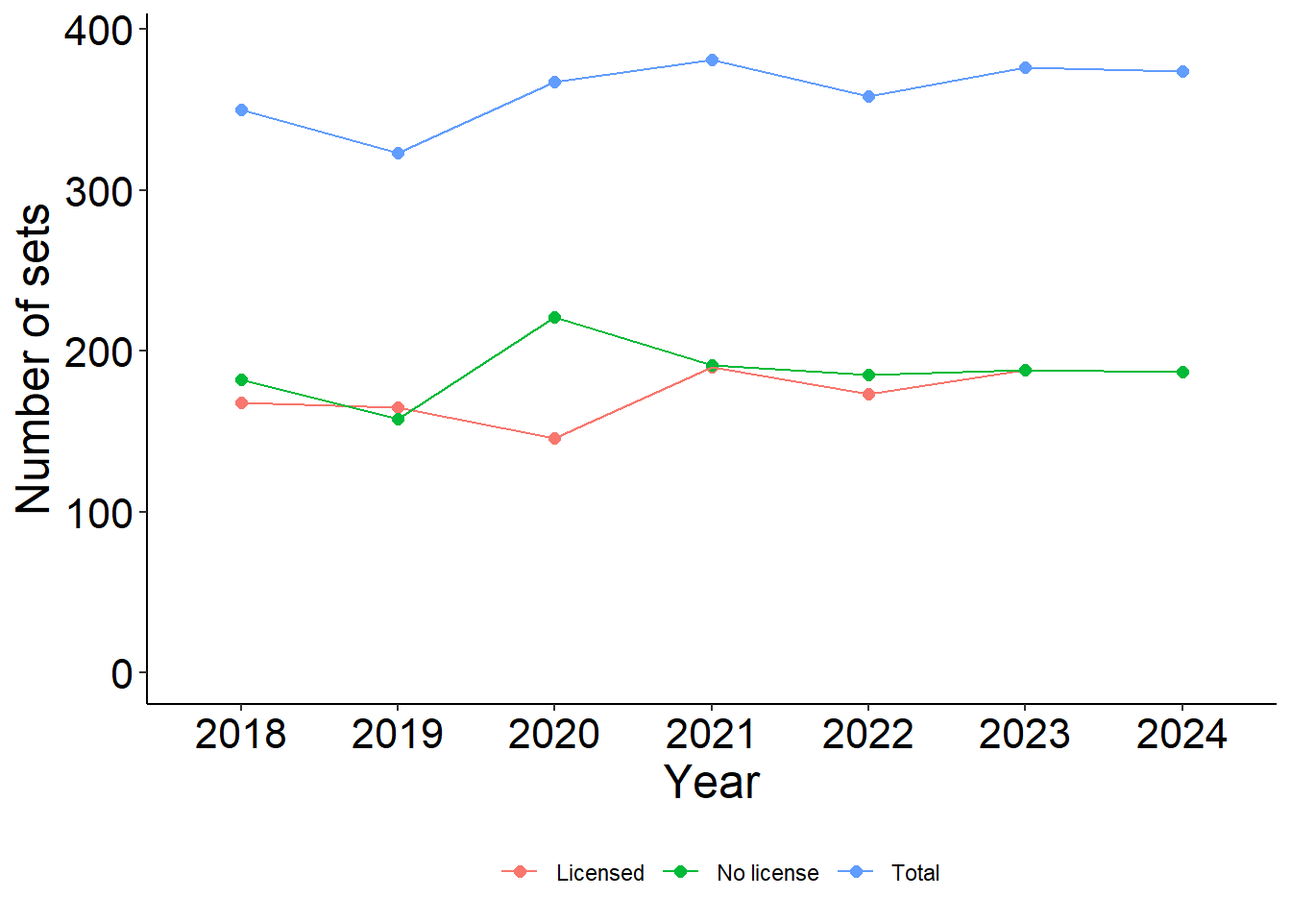
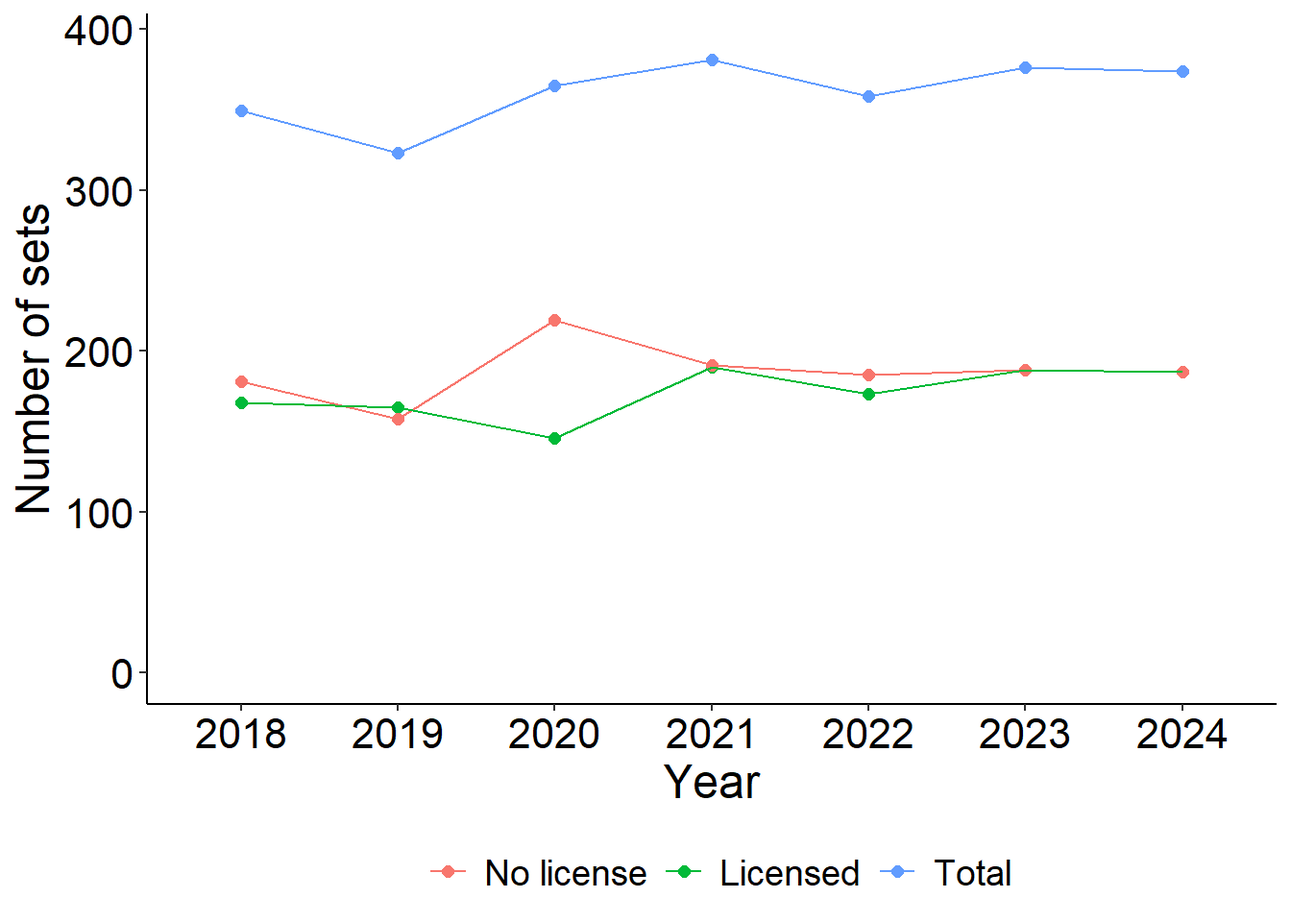
Update

diff --git a/docs/data_science_experience/posts/LegoSetPrices.html b/docs/data_science_experience/posts/LegoSetPrices.html
@@ -159,6 +159,7 @@ pre > code.sourceCode > span > a:first-child::before { text-decoration: underlin
   <li><a href="#visually-exploring-the-data" id="toc-visually-exploring-the-data" class="nav-link" data-scroll-target="#visually-exploring-the-data"><span class="header-section-number">4</span> Visually exploring the data</a>
   <ul class="collapse">
   <li><a href="#number-of-sets-released-each-year" id="toc-number-of-sets-released-each-year" class="nav-link" data-scroll-target="#number-of-sets-released-each-year"><span class="header-section-number">4.1</span> Number of sets released each year</a></li>
+  <li><a href="#price-to-part-ratio-of-sets-over-the-years" id="toc-price-to-part-ratio-of-sets-over-the-years" class="nav-link" data-scroll-target="#price-to-part-ratio-of-sets-over-the-years"><span class="header-section-number">4.2</span> Price-to-part ratio of sets over the years</a></li>
   </ul></li>
   </ul>
 </nav>
@@ -387,7 +388,7 @@ Table&nbsp;1: First 5 rows of <code>sets_18to24</code>
 <ul>
 <li><p><code>pieces</code> cannot be NA, and is cut-off at 10, because these very small sets are often expansion sets such as base plates, road plates, rails, etc.</p></li>
 <li><p><code>DE_retailPrice</code> cannot be NA.</p></li>
-<li><p>As I only focus on actual Lego sets, <code>theme</code> cannot be “Duplo”, and <code>category</code> cannot be “Book”.</p></li>
+<li><p>As I only focus on actual Lego sets, <code>theme</code> and <code>subtheme</code> cannot be “Duplo”, and <code>category</code> cannot be “Book”.</p></li>
 <li><p><code>released</code> equals TRUE, so it only contains sets that have been released on the market.</p></li>
 </ul>
 <p>And finally, the column <code>Price-to-part ratio</code> is added, which is calculated from <code>DE_retailPrice</code> and <code>pieces</code>.</p>
@@ -397,15 +398,16 @@ Table&nbsp;1: First 5 rows of <code>sets_18to24</code>
 <span id="cb5-3"><a href="#cb5-3" aria-hidden="true" tabindex="-1"></a>         pieces <span class="sc">&gt;</span> <span class="dv">10</span>,</span>
 <span id="cb5-4"><a href="#cb5-4" aria-hidden="true" tabindex="-1"></a>         <span class="fu">is.na</span>(DE_retailPrice) <span class="sc">==</span> <span class="cn">FALSE</span>,</span>
 <span id="cb5-5"><a href="#cb5-5" aria-hidden="true" tabindex="-1"></a>         theme <span class="sc">!=</span> <span class="st">"Duplo"</span>,</span>
-<span id="cb5-6"><a href="#cb5-6" aria-hidden="true" tabindex="-1"></a>         category <span class="sc">!=</span> <span class="st">"Book"</span>,</span>
-<span id="cb5-7"><a href="#cb5-7" aria-hidden="true" tabindex="-1"></a>         released <span class="sc">==</span> <span class="cn">TRUE</span></span>
-<span id="cb5-8"><a href="#cb5-8" aria-hidden="true" tabindex="-1"></a>         ) <span class="sc">%&gt;%</span></span>
-<span id="cb5-9"><a href="#cb5-9" aria-hidden="true" tabindex="-1"></a>  <span class="fu">mutate</span>(<span class="st">"License"</span> <span class="ot">=</span> <span class="fu">ifelse</span>(themeGroup <span class="sc">==</span> <span class="st">"Licensed"</span><span class="sc">|</span>subtheme <span class="sc">==</span> <span class="st">"Licensed"</span>,</span>
-<span id="cb5-10"><a href="#cb5-10" aria-hidden="true" tabindex="-1"></a>                            <span class="st">"Licensed"</span>,</span>
-<span id="cb5-11"><a href="#cb5-11" aria-hidden="true" tabindex="-1"></a>                            <span class="st">"No license"</span>),</span>
-<span id="cb5-12"><a href="#cb5-12" aria-hidden="true" tabindex="-1"></a>         <span class="st">"Price-to-part ratio"</span> <span class="ot">=</span> <span class="fu">round</span>(DE_retailPrice<span class="sc">/</span>pieces, <span class="dv">2</span>))</span>
-<span id="cb5-13"><a href="#cb5-13" aria-hidden="true" tabindex="-1"></a></span>
-<span id="cb5-14"><a href="#cb5-14" aria-hidden="true" tabindex="-1"></a><span class="fu">head</span>(df_sets_18to24_filt, <span class="at">n =</span> <span class="dv">5</span>)</span></code><button title="Copy to Clipboard" class="code-copy-button"><i class="bi"></i></button></pre></div>
+<span id="cb5-6"><a href="#cb5-6" aria-hidden="true" tabindex="-1"></a>         subtheme <span class="sc">!=</span> <span class="st">"Duplo"</span>,</span>
+<span id="cb5-7"><a href="#cb5-7" aria-hidden="true" tabindex="-1"></a>         category <span class="sc">!=</span> <span class="st">"Book"</span>,</span>
+<span id="cb5-8"><a href="#cb5-8" aria-hidden="true" tabindex="-1"></a>         released <span class="sc">==</span> <span class="cn">TRUE</span></span>
+<span id="cb5-9"><a href="#cb5-9" aria-hidden="true" tabindex="-1"></a>         ) <span class="sc">%&gt;%</span></span>
+<span id="cb5-10"><a href="#cb5-10" aria-hidden="true" tabindex="-1"></a>  <span class="fu">mutate</span>(<span class="st">"License"</span> <span class="ot">=</span> <span class="fu">ifelse</span>(themeGroup <span class="sc">==</span> <span class="st">"Licensed"</span><span class="sc">|</span>subtheme <span class="sc">==</span> <span class="st">"Licensed"</span>,</span>
+<span id="cb5-11"><a href="#cb5-11" aria-hidden="true" tabindex="-1"></a>                            <span class="st">"Licensed"</span>,</span>
+<span id="cb5-12"><a href="#cb5-12" aria-hidden="true" tabindex="-1"></a>                            <span class="st">"No license"</span>),</span>
+<span id="cb5-13"><a href="#cb5-13" aria-hidden="true" tabindex="-1"></a>         <span class="st">"Price-to-part ratio"</span> <span class="ot">=</span> <span class="fu">round</span>(DE_retailPrice<span class="sc">/</span>pieces, <span class="dv">2</span>))</span>
+<span id="cb5-14"><a href="#cb5-14" aria-hidden="true" tabindex="-1"></a></span>
+<span id="cb5-15"><a href="#cb5-15" aria-hidden="true" tabindex="-1"></a><span class="fu">head</span>(df_sets_18to24_filt, <span class="at">n =</span> <span class="dv">5</span>)</span></code><button title="Copy to Clipboard" class="code-copy-button"><i class="bi"></i></button></pre></div>
 <div id="tbl-sets_18to24_filt" class="cell quarto-float quarto-figure quarto-figure-center anchored">
 <figure class="quarto-float quarto-float-tbl figure">
 <figcaption class="quarto-float-caption-top quarto-float-caption quarto-float-tbl" id="tbl-sets_18to24_filt-caption-0ceaefa1-69ba-4598-a22c-09a6ac19f8ca">
@@ -531,9 +533,10 @@ Table&nbsp;2: First 5 rows of <code>sets_18to24_filt</code>
 </figure>
 </div>
 </div>
-<p>The <code>years</code> column is converted into type factor, instead of type double. This will turn it from a continuous variable into a categorical variable, and is necessary when using <code>year</code> as a grouping variable, or when creating plots with <code>ggplot2</code>.</p>
+<p>The <code>year</code> column is converted into type factor, instead of type double. This will turn it from a continuous variable into a categorical variable, and is necessary when using <code>year</code> as a grouping variable, or when creating plots with <code>ggplot2</code>. Also, the <code>License</code> column is made into a factor, with the levels “No license” and “License”, in that order.</p>
 <div class="cell">
-<div class="sourceCode cell-code" id="cb6"><pre class="sourceCode r code-with-copy"><code class="sourceCode r"><span id="cb6-1"><a href="#cb6-1" aria-hidden="true" tabindex="-1"></a>df_sets_18to24_filt<span class="sc">$</span>year <span class="ot">&lt;-</span> <span class="fu">factor</span>(df_sets_18to24_filt<span class="sc">$</span>year)</span></code><button title="Copy to Clipboard" class="code-copy-button"><i class="bi"></i></button></pre></div>
+<div class="sourceCode cell-code" id="cb6"><pre class="sourceCode r code-with-copy"><code class="sourceCode r"><span id="cb6-1"><a href="#cb6-1" aria-hidden="true" tabindex="-1"></a>df_sets_18to24_filt<span class="sc">$</span>year <span class="ot">&lt;-</span> <span class="fu">factor</span>(df_sets_18to24_filt<span class="sc">$</span>year)</span>
+<span id="cb6-2"><a href="#cb6-2" aria-hidden="true" tabindex="-1"></a>df_sets_18to24_filt<span class="sc">$</span>License <span class="ot">&lt;-</span> <span class="fu">factor</span>(df_sets_18to24_filt<span class="sc">$</span>License, <span class="at">levels =</span> <span class="fu">c</span>(<span class="st">"No license"</span>, <span class="st">"Licensed"</span>))</span></code><button title="Copy to Clipboard" class="code-copy-button"><i class="bi"></i></button></pre></div>
 </div>
 </section>
 <section id="visually-exploring-the-data" class="level2" data-number="4">
@@ -548,17 +551,20 @@ Table&nbsp;2: First 5 rows of <code>sets_18to24_filt</code>
 <span id="cb7-5"><a href="#cb7-5" aria-hidden="true" tabindex="-1"></a>  <span class="fu">pivot_wider</span>(<span class="at">names_from =</span> License, <span class="at">values_from =</span> n_sets) <span class="sc">%&gt;%</span></span>
 <span id="cb7-6"><a href="#cb7-6" aria-hidden="true" tabindex="-1"></a>  <span class="fu">pivot_longer</span>(<span class="at">cols =</span> <span class="fu">c</span>(Licensed, <span class="st">`</span><span class="at">No license</span><span class="st">`</span>, Total), <span class="at">names_to =</span> <span class="st">"License"</span>, <span class="at">values_to =</span> <span class="st">"n_sets"</span>)</span>
 <span id="cb7-7"><a href="#cb7-7" aria-hidden="true" tabindex="-1"></a></span>
-<span id="cb7-8"><a href="#cb7-8" aria-hidden="true" tabindex="-1"></a><span class="fu">ggplot</span>(df_release_yr) <span class="sc">+</span></span>
-<span id="cb7-9"><a href="#cb7-9" aria-hidden="true" tabindex="-1"></a>  <span class="fu">geom_point</span>(<span class="fu">aes</span>(<span class="at">x =</span> year, <span class="at">y =</span> n_sets, <span class="at">color =</span> License, <span class="at">fill =</span> License), <span class="at">pch =</span> <span class="dv">21</span>, <span class="at">size =</span> <span class="dv">2</span>) <span class="sc">+</span></span>
-<span id="cb7-10"><a href="#cb7-10" aria-hidden="true" tabindex="-1"></a>  <span class="fu">geom_line</span>(<span class="fu">aes</span>(<span class="at">x =</span> year, <span class="at">y =</span> n_sets, <span class="at">color =</span> License, <span class="at">group =</span> License)) <span class="sc">+</span></span>
-<span id="cb7-11"><a href="#cb7-11" aria-hidden="true" tabindex="-1"></a>  <span class="fu">scale_x_discrete</span>(<span class="at">name =</span> <span class="st">"Year"</span>) <span class="sc">+</span></span>
-<span id="cb7-12"><a href="#cb7-12" aria-hidden="true" tabindex="-1"></a>  <span class="fu">scale_y_continuous</span>(<span class="at">name =</span> <span class="st">"Number of sets"</span>) <span class="sc">+</span></span>
-<span id="cb7-13"><a href="#cb7-13" aria-hidden="true" tabindex="-1"></a>  <span class="fu">coord_cartesian</span>(<span class="at">ylim =</span> <span class="fu">c</span>(<span class="dv">0</span>, <span class="dv">390</span>)) <span class="sc">+</span></span>
-<span id="cb7-14"><a href="#cb7-14" aria-hidden="true" tabindex="-1"></a>  <span class="fu">theme_classic</span>() <span class="sc">+</span></span>
-<span id="cb7-15"><a href="#cb7-15" aria-hidden="true" tabindex="-1"></a>  <span class="fu">theme</span>(<span class="at">axis.title =</span> <span class="fu">element_text</span>(<span class="at">size =</span> <span class="dv">18</span>),</span>
-<span id="cb7-16"><a href="#cb7-16" aria-hidden="true" tabindex="-1"></a>        <span class="at">axis.text =</span> <span class="fu">element_text</span>(<span class="at">size =</span> <span class="dv">16</span>, <span class="at">color =</span> <span class="st">"black"</span>),</span>
-<span id="cb7-17"><a href="#cb7-17" aria-hidden="true" tabindex="-1"></a>        <span class="at">legend.position =</span> <span class="st">"bottom"</span>,</span>
-<span id="cb7-18"><a href="#cb7-18" aria-hidden="true" tabindex="-1"></a>        <span class="at">legend.title =</span> <span class="fu">element_blank</span>())</span></code><button title="Copy to Clipboard" class="code-copy-button"><i class="bi"></i></button></pre></div>
+<span id="cb7-8"><a href="#cb7-8" aria-hidden="true" tabindex="-1"></a>df_release_yr<span class="sc">$</span>License <span class="ot">&lt;-</span> <span class="fu">factor</span>(df_release_yr<span class="sc">$</span>License, <span class="at">levels =</span> <span class="fu">c</span>(<span class="st">"No license"</span>, <span class="st">"Licensed"</span>, <span class="st">"Total"</span>))</span>
+<span id="cb7-9"><a href="#cb7-9" aria-hidden="true" tabindex="-1"></a></span>
+<span id="cb7-10"><a href="#cb7-10" aria-hidden="true" tabindex="-1"></a><span class="fu">ggplot</span>(df_release_yr) <span class="sc">+</span></span>
+<span id="cb7-11"><a href="#cb7-11" aria-hidden="true" tabindex="-1"></a>  <span class="fu">geom_point</span>(<span class="fu">aes</span>(<span class="at">x =</span> year, <span class="at">y =</span> n_sets, <span class="at">color =</span> License, <span class="at">fill =</span> License), <span class="at">pch =</span> <span class="dv">21</span>, <span class="at">size =</span> <span class="dv">2</span>) <span class="sc">+</span></span>
+<span id="cb7-12"><a href="#cb7-12" aria-hidden="true" tabindex="-1"></a>  <span class="fu">geom_line</span>(<span class="fu">aes</span>(<span class="at">x =</span> year, <span class="at">y =</span> n_sets, <span class="at">color =</span> License, <span class="at">group =</span> License)) <span class="sc">+</span></span>
+<span id="cb7-13"><a href="#cb7-13" aria-hidden="true" tabindex="-1"></a>  <span class="fu">scale_x_discrete</span>(<span class="at">name =</span> <span class="st">"Year"</span>) <span class="sc">+</span></span>
+<span id="cb7-14"><a href="#cb7-14" aria-hidden="true" tabindex="-1"></a>  <span class="fu">scale_y_continuous</span>(<span class="at">name =</span> <span class="st">"Number of sets"</span>) <span class="sc">+</span></span>
+<span id="cb7-15"><a href="#cb7-15" aria-hidden="true" tabindex="-1"></a>  <span class="fu">coord_cartesian</span>(<span class="at">ylim =</span> <span class="fu">c</span>(<span class="dv">0</span>, <span class="dv">390</span>)) <span class="sc">+</span></span>
+<span id="cb7-16"><a href="#cb7-16" aria-hidden="true" tabindex="-1"></a>  <span class="fu">theme_classic</span>() <span class="sc">+</span></span>
+<span id="cb7-17"><a href="#cb7-17" aria-hidden="true" tabindex="-1"></a>  <span class="fu">theme</span>(<span class="at">axis.title =</span> <span class="fu">element_text</span>(<span class="at">size =</span> <span class="dv">18</span>),</span>
+<span id="cb7-18"><a href="#cb7-18" aria-hidden="true" tabindex="-1"></a>        <span class="at">axis.text =</span> <span class="fu">element_text</span>(<span class="at">size =</span> <span class="dv">16</span>, <span class="at">color =</span> <span class="st">"black"</span>),</span>
+<span id="cb7-19"><a href="#cb7-19" aria-hidden="true" tabindex="-1"></a>        <span class="at">legend.position =</span> <span class="st">"bottom"</span>,</span>
+<span id="cb7-20"><a href="#cb7-20" aria-hidden="true" tabindex="-1"></a>        <span class="at">legend.title =</span> <span class="fu">element_blank</span>(),</span>
+<span id="cb7-21"><a href="#cb7-21" aria-hidden="true" tabindex="-1"></a>        <span class="at">legend.text =</span> <span class="fu">element_text</span>(<span class="at">size =</span> <span class="dv">14</span>))</span></code><button title="Copy to Clipboard" class="code-copy-button"><i class="bi"></i></button></pre></div>
 <div class="cell-output-display">
 <div id="fig-sets_released" class="quarto-float quarto-figure quarto-figure-center anchored">
 <figure class="quarto-float quarto-float-fig figure">
@@ -573,22 +579,30 @@ Figure&nbsp;1: Number of sets released from 2018 to 2024.
 </div>
 </div>
 <p>In <a href="#fig-sets_released" class="quarto-xref">Figure&nbsp;1</a> you can see that the number of sets released each year is quite stable, with almost an equal number of licensed versus non-licensed sets being released. Interesting is the difference in 2020, where there is a drop in licensed sets, and an increase in the licensed ones. Not sure what the cause is of this difference here, but a good guess might be that due to COVID-19 a lot of media releases (movies, tv series, …) have been postponed, which in turn might have resulted in the accompanying Lego sets not being released as well?</p>
+</section>
+<section id="price-to-part-ratio-of-sets-over-the-years" class="level3" data-number="4.2">
+<h3 data-number="4.2" class="anchored" data-anchor-id="price-to-part-ratio-of-sets-over-the-years"><span class="header-section-number">4.2</span> Price-to-part ratio of sets over the years</h3>
 <div class="cell">
 <div class="sourceCode cell-code" id="cb8"><pre class="sourceCode r code-with-copy"><code class="sourceCode r"><span id="cb8-1"><a href="#cb8-1" aria-hidden="true" tabindex="-1"></a>df_ptp_stats <span class="ot">&lt;-</span> df_sets_18to24_filt <span class="sc">%&gt;%</span></span>
 <span id="cb8-2"><a href="#cb8-2" aria-hidden="true" tabindex="-1"></a>  <span class="fu">group_by</span>(year, License) <span class="sc">%&gt;%</span></span>
-<span id="cb8-3"><a href="#cb8-3" aria-hidden="true" tabindex="-1"></a>  <span class="fu">summarize</span>(<span class="st">"Mean PtP ratio"</span> <span class="ot">=</span> <span class="fu">mean</span>(<span class="st">`</span><span class="at">Price-to-part ratio</span><span class="st">`</span>))</span></code><button title="Copy to Clipboard" class="code-copy-button"><i class="bi"></i></button></pre></div>
-<div class="cell-output cell-output-stderr">
-<pre><code>`summarise()` has grouped output by 'year'. You can override using the
-`.groups` argument.</code></pre>
-</div>
-<div class="sourceCode cell-code" id="cb10"><pre class="sourceCode r code-with-copy"><code class="sourceCode r"><span id="cb10-1"><a href="#cb10-1" aria-hidden="true" tabindex="-1"></a><span class="fu">ggplot</span>(df_sets_18to24_filt) <span class="sc">+</span></span>
-<span id="cb10-2"><a href="#cb10-2" aria-hidden="true" tabindex="-1"></a>  <span class="fu">geom_quasirandom</span>(<span class="fu">aes</span>(<span class="at">x =</span> year, <span class="at">y =</span> <span class="st">`</span><span class="at">Price-to-part ratio</span><span class="st">`</span>, <span class="at">color =</span> License), <span class="at">dodge.width =</span> <span class="fl">0.5</span>, <span class="at">pch =</span> <span class="dv">21</span>) <span class="sc">+</span></span>
-<span id="cb10-3"><a href="#cb10-3" aria-hidden="true" tabindex="-1"></a>  <span class="fu">scale_y_continuous</span>(<span class="at">trans =</span> <span class="st">"log10"</span>) <span class="sc">+</span></span>
-<span id="cb10-4"><a href="#cb10-4" aria-hidden="true" tabindex="-1"></a>  <span class="fu">theme_classic</span>() <span class="sc">+</span></span>
-<span id="cb10-5"><a href="#cb10-5" aria-hidden="true" tabindex="-1"></a>  <span class="fu">theme</span>(<span class="at">axis.title =</span> <span class="fu">element_text</span>(<span class="at">size =</span> <span class="dv">18</span>),</span>
-<span id="cb10-6"><a href="#cb10-6" aria-hidden="true" tabindex="-1"></a>        <span class="at">axis.text =</span> <span class="fu">element_text</span>(<span class="at">size =</span> <span class="dv">16</span>, <span class="at">color =</span> <span class="st">"black"</span>),</span>
-<span id="cb10-7"><a href="#cb10-7" aria-hidden="true" tabindex="-1"></a>        <span class="at">legend.position =</span> <span class="st">"bottom"</span>,</span>
-<span id="cb10-8"><a href="#cb10-8" aria-hidden="true" tabindex="-1"></a>        <span class="at">legend.title =</span> <span class="fu">element_blank</span>())</span></code><button title="Copy to Clipboard" class="code-copy-button"><i class="bi"></i></button></pre></div>
+<span id="cb8-3"><a href="#cb8-3" aria-hidden="true" tabindex="-1"></a>  <span class="fu">summarize</span>(<span class="st">"mean PtP ratio"</span> <span class="ot">=</span> <span class="fu">mean</span>(<span class="st">`</span><span class="at">Price-to-part ratio</span><span class="st">`</span>),</span>
+<span id="cb8-4"><a href="#cb8-4" aria-hidden="true" tabindex="-1"></a>            <span class="st">"median PtP ratio"</span> <span class="ot">=</span> <span class="fu">median</span>(<span class="st">`</span><span class="at">Price-to-part ratio</span><span class="st">`</span>),</span>
+<span id="cb8-5"><a href="#cb8-5" aria-hidden="true" tabindex="-1"></a>            <span class="st">"sd"</span> <span class="ot">=</span> <span class="fu">sd</span>(<span class="st">`</span><span class="at">Price-to-part ratio</span><span class="st">`</span>))</span>
+<span id="cb8-6"><a href="#cb8-6" aria-hidden="true" tabindex="-1"></a></span>
+<span id="cb8-7"><a href="#cb8-7" aria-hidden="true" tabindex="-1"></a><span class="fu">ggplot</span>(df_sets_18to24_filt) <span class="sc">+</span></span>
+<span id="cb8-8"><a href="#cb8-8" aria-hidden="true" tabindex="-1"></a>  <span class="fu">facet_grid</span>(<span class="sc">~</span>year) <span class="sc">+</span></span>
+<span id="cb8-9"><a href="#cb8-9" aria-hidden="true" tabindex="-1"></a>  <span class="fu">geom_quasirandom</span>(<span class="fu">aes</span>(<span class="at">x =</span> License, <span class="at">y =</span> <span class="st">`</span><span class="at">Price-to-part ratio</span><span class="st">`</span>, <span class="at">color =</span> License), <span class="at">dodge.width =</span> <span class="fl">0.5</span>, <span class="at">pch =</span> <span class="dv">21</span>) <span class="sc">+</span></span>
+<span id="cb8-10"><a href="#cb8-10" aria-hidden="true" tabindex="-1"></a>  <span class="fu">geom_point</span>(<span class="at">data =</span> df_ptp_stats, <span class="fu">aes</span>(<span class="at">x =</span> License, <span class="at">y =</span> <span class="st">`</span><span class="at">mean PtP ratio</span><span class="st">`</span>)) <span class="sc">+</span></span>
+<span id="cb8-11"><a href="#cb8-11" aria-hidden="true" tabindex="-1"></a>  <span class="fu">geom_errorbar</span>(<span class="at">data =</span> df_ptp_stats, <span class="fu">aes</span>(<span class="at">x =</span> License, <span class="at">ymin =</span> <span class="st">`</span><span class="at">mean PtP ratio</span><span class="st">`</span> <span class="sc">-</span> sd, <span class="at">ymax =</span> <span class="st">`</span><span class="at">mean PtP ratio</span><span class="st">`</span> <span class="sc">+</span> sd), <span class="at">width =</span> <span class="fl">0.2</span>) <span class="sc">+</span></span>
+<span id="cb8-12"><a href="#cb8-12" aria-hidden="true" tabindex="-1"></a>  <span class="fu">theme_classic</span>() <span class="sc">+</span></span>
+<span id="cb8-13"><a href="#cb8-13" aria-hidden="true" tabindex="-1"></a>  <span class="fu">theme</span>(<span class="at">axis.title.x =</span> <span class="fu">element_blank</span>(),</span>
+<span id="cb8-14"><a href="#cb8-14" aria-hidden="true" tabindex="-1"></a>        <span class="at">axis.title.y =</span> <span class="fu">element_text</span>(<span class="at">size =</span> <span class="dv">18</span>),</span>
+<span id="cb8-15"><a href="#cb8-15" aria-hidden="true" tabindex="-1"></a>        <span class="at">axis.text.x =</span> <span class="fu">element_blank</span>(),</span>
+<span id="cb8-16"><a href="#cb8-16" aria-hidden="true" tabindex="-1"></a>        <span class="at">axis.text.y =</span> <span class="fu">element_text</span>(<span class="at">size =</span> <span class="dv">16</span>, <span class="at">color =</span> <span class="st">"black"</span>),</span>
+<span id="cb8-17"><a href="#cb8-17" aria-hidden="true" tabindex="-1"></a>        <span class="at">legend.position =</span> <span class="st">"bottom"</span>,</span>
+<span id="cb8-18"><a href="#cb8-18" aria-hidden="true" tabindex="-1"></a>        <span class="at">legend.title =</span> <span class="fu">element_blank</span>(),</span>
+<span id="cb8-19"><a href="#cb8-19" aria-hidden="true" tabindex="-1"></a>        <span class="at">legend.text =</span> <span class="fu">element_text</span>(<span class="at">size =</span> <span class="dv">14</span>),</span>
+<span id="cb8-20"><a href="#cb8-20" aria-hidden="true" tabindex="-1"></a>        <span class="at">strip.text =</span> <span class="fu">element_text</span>(<span class="at">size =</span> <span class="dv">14</span>, <span class="at">face =</span> <span class="st">"bold"</span>))</span></code><button title="Copy to Clipboard" class="code-copy-button"><i class="bi"></i></button></pre></div>
 <div class="cell-output-display">
 <div>
 <figure class="figure">
@@ -598,56 +612,24 @@ Figure&nbsp;1: Number of sets released from 2018 to 2024.
 </div>
 </div>
 <div class="cell">
-<div class="sourceCode cell-code" id="cb11"><pre class="sourceCode r code-with-copy"><code class="sourceCode r"><span id="cb11-1"><a href="#cb11-1" aria-hidden="true" tabindex="-1"></a><span class="fu">ggplot</span>(df_sets_18to24_filt) <span class="sc">+</span></span>
-<span id="cb11-2"><a href="#cb11-2" aria-hidden="true" tabindex="-1"></a>  <span class="fu">geom_boxplot</span>(<span class="fu">aes</span>(<span class="at">x =</span> year, <span class="at">y =</span> pieces)) <span class="sc">+</span></span>
-<span id="cb11-3"><a href="#cb11-3" aria-hidden="true" tabindex="-1"></a>  <span class="fu">scale_y_continuous</span>(<span class="at">trans =</span> <span class="st">"log10"</span>)</span></code><button title="Copy to Clipboard" class="code-copy-button"><i class="bi"></i></button></pre></div>
+<div class="sourceCode cell-code" id="cb9"><pre class="sourceCode r code-with-copy"><code class="sourceCode r"><span id="cb9-1"><a href="#cb9-1" aria-hidden="true" tabindex="-1"></a><span class="fu">ggplot</span>(df_ptp_stats) <span class="sc">+</span></span>
+<span id="cb9-2"><a href="#cb9-2" aria-hidden="true" tabindex="-1"></a>  <span class="fu">geom_line</span>(<span class="fu">aes</span>(<span class="at">x =</span> year, <span class="at">y =</span> <span class="st">`</span><span class="at">mean PtP ratio</span><span class="st">`</span>, <span class="at">color =</span> License, <span class="at">group =</span> License)) <span class="sc">+</span></span>
+<span id="cb9-3"><a href="#cb9-3" aria-hidden="true" tabindex="-1"></a>  <span class="fu">geom_point</span>(<span class="fu">aes</span>(<span class="at">x =</span> year, <span class="at">y =</span> <span class="st">`</span><span class="at">mean PtP ratio</span><span class="st">`</span>, <span class="at">color =</span> License, <span class="at">fill =</span> License), <span class="at">pch =</span> <span class="dv">21</span>, <span class="at">size =</span> <span class="dv">2</span>) <span class="sc">+</span></span>
+<span id="cb9-4"><a href="#cb9-4" aria-hidden="true" tabindex="-1"></a>  <span class="fu">scale_x_discrete</span>(<span class="at">name =</span> <span class="st">"Year"</span>) <span class="sc">+</span></span>
+<span id="cb9-5"><a href="#cb9-5" aria-hidden="true" tabindex="-1"></a>  <span class="fu">scale_y_continuous</span>(<span class="at">name =</span> <span class="st">"Mean price-to-part ratio"</span>) <span class="sc">+</span></span>
+<span id="cb9-6"><a href="#cb9-6" aria-hidden="true" tabindex="-1"></a>  <span class="fu">coord_cartesian</span>(<span class="at">ylim =</span> <span class="fu">c</span>(<span class="dv">0</span>, <span class="fl">0.15</span>)) <span class="sc">+</span></span>
+<span id="cb9-7"><a href="#cb9-7" aria-hidden="true" tabindex="-1"></a>  <span class="fu">theme_classic</span>() <span class="sc">+</span></span>
+<span id="cb9-8"><a href="#cb9-8" aria-hidden="true" tabindex="-1"></a>  <span class="fu">theme</span>(<span class="at">axis.title =</span> <span class="fu">element_text</span>(<span class="at">size =</span> <span class="dv">18</span>),</span>
+<span id="cb9-9"><a href="#cb9-9" aria-hidden="true" tabindex="-1"></a>        <span class="at">axis.text =</span> <span class="fu">element_text</span>(<span class="at">size =</span> <span class="dv">16</span>, <span class="at">color =</span> <span class="st">"black"</span>),</span>
+<span id="cb9-10"><a href="#cb9-10" aria-hidden="true" tabindex="-1"></a>        <span class="at">legend.position =</span> <span class="st">"bottom"</span>,</span>
+<span id="cb9-11"><a href="#cb9-11" aria-hidden="true" tabindex="-1"></a>        <span class="at">legend.title =</span> <span class="fu">element_blank</span>(),</span>
+<span id="cb9-12"><a href="#cb9-12" aria-hidden="true" tabindex="-1"></a>        <span class="at">legend.text =</span> <span class="fu">element_text</span>(<span class="at">size =</span> <span class="dv">14</span>))</span></code><button title="Copy to Clipboard" class="code-copy-button"><i class="bi"></i></button></pre></div>
 <div class="cell-output-display">
 <div>
 <figure class="figure">
 <p><img src="LegoSetPrices_files/figure-html/unnamed-chunk-9-1.png" class="img-fluid figure-img" width="672"></p>
 </figure>
 </div>
-</div>
-<div class="sourceCode cell-code" id="cb12"><pre class="sourceCode r code-with-copy"><code class="sourceCode r"><span id="cb12-1"><a href="#cb12-1" aria-hidden="true" tabindex="-1"></a><span class="fu">ggplot</span>(df_sets_18to24_filt) <span class="sc">+</span></span>
-<span id="cb12-2"><a href="#cb12-2" aria-hidden="true" tabindex="-1"></a>  <span class="fu">geom_boxplot</span>(<span class="fu">aes</span>(<span class="at">x =</span> year, <span class="at">y =</span> DE_retailPrice)) <span class="sc">+</span></span>
-<span id="cb12-3"><a href="#cb12-3" aria-hidden="true" tabindex="-1"></a>    <span class="fu">scale_y_continuous</span>(<span class="at">trans =</span> <span class="st">"log10"</span>)</span></code><button title="Copy to Clipboard" class="code-copy-button"><i class="bi"></i></button></pre></div>
-<div class="cell-output-display">
-<div>
-<figure class="figure">
-<p><img src="LegoSetPrices_files/figure-html/unnamed-chunk-9-2.png" class="img-fluid figure-img" width="672"></p>
-</figure>
-</div>
-</div>
-<div class="sourceCode cell-code" id="cb13"><pre class="sourceCode r code-with-copy"><code class="sourceCode r"><span id="cb13-1"><a href="#cb13-1" aria-hidden="true" tabindex="-1"></a><span class="fu">ggplot</span>(df_sets_18to24_filt) <span class="sc">+</span></span>
-<span id="cb13-2"><a href="#cb13-2" aria-hidden="true" tabindex="-1"></a>  <span class="fu">geom_point</span>(<span class="fu">aes</span>(<span class="at">x =</span> pieces, <span class="at">y =</span> DE_retailPrice, <span class="at">color =</span> License)) <span class="sc">+</span></span>
-<span id="cb13-3"><a href="#cb13-3" aria-hidden="true" tabindex="-1"></a>  <span class="fu">geom_smooth</span>(<span class="fu">aes</span>(<span class="at">x =</span> pieces, <span class="at">y =</span> DE_retailPrice), <span class="at">formula =</span> y <span class="sc">~</span> x <span class="sc">-</span> <span class="dv">1</span>, <span class="at">method =</span> <span class="st">"lm"</span>) <span class="sc">+</span></span>
-<span id="cb13-4"><a href="#cb13-4" aria-hidden="true" tabindex="-1"></a>  <span class="fu">geom_smooth</span>(<span class="fu">aes</span>(<span class="at">x =</span> pieces, <span class="at">y =</span> DE_retailPrice, <span class="at">color =</span> License), <span class="at">formula =</span> y <span class="sc">~</span> x <span class="sc">-</span> <span class="dv">1</span>, <span class="at">method =</span> <span class="st">"lm"</span>)</span></code><button title="Copy to Clipboard" class="code-copy-button"><i class="bi"></i></button></pre></div>
-<div class="cell-output-display">
-<div>
-<figure class="figure">
-<p><img src="LegoSetPrices_files/figure-html/unnamed-chunk-9-3.png" class="img-fluid figure-img" width="672"></p>
-</figure>
-</div>
-</div>
-<div class="sourceCode cell-code" id="cb14"><pre class="sourceCode r code-with-copy"><code class="sourceCode r"><span id="cb14-1"><a href="#cb14-1" aria-hidden="true" tabindex="-1"></a><span class="fu">lm</span>(DE_retailPrice <span class="sc">~</span> pieces <span class="sc">-</span> <span class="dv">1</span>, <span class="at">data =</span> df_sets_18to24_filt) <span class="sc">%&gt;%</span> <span class="fu">summary</span>()</span></code><button title="Copy to Clipboard" class="code-copy-button"><i class="bi"></i></button></pre></div>
-<div class="cell-output cell-output-stdout">
-<pre><code>
-Call:
-lm(formula = DE_retailPrice ~ pieces - 1, data = df_sets_18to24_filt)
-
-Residuals:
-    Min      1Q  Median      3Q     Max 
--736.90   -0.43    5.35   14.11  436.71 
-
-Coefficients:
-        Estimate Std. Error t value Pr(&gt;|t|)    
-pieces 0.0843858  0.0006985   120.8   &lt;2e-16 ***
----
-Signif. codes:  0 '***' 0.001 '**' 0.01 '*' 0.05 '.' 0.1 ' ' 1
-
-Residual standard error: 36.33 on 2528 degrees of freedom
-Multiple R-squared:  0.8524,    Adjusted R-squared:  0.8523 
-F-statistic: 1.46e+04 on 1 and 2528 DF,  p-value: &lt; 2.2e-16</code></pre>
 </div>
 </div>
 

diff --git a/docs/data_science_experience/datsciexp.html b/docs/data_science_experience/datsciexp.html
@@ -203,7 +203,7 @@ window.Quarto = {
 
 <div class="quarto-listing quarto-listing-container-default" id="listing-listing">
 <div class="list quarto-listing-default">
-<div class="quarto-post image-right" data-index="0" data-listing-date-sort="1721512800000" data-listing-file-modified-sort="1721575473867" data-listing-date-modified-sort="NaN" data-listing-reading-time-sort="7" data-listing-word-count-sort="1275">
+<div class="quarto-post image-right" data-index="0" data-listing-date-sort="1721512800000" data-listing-file-modified-sort="1721603336006" data-listing-date-modified-sort="NaN" data-listing-reading-time-sort="8" data-listing-word-count-sort="1488">
 <div class="thumbnail">
 <p><a href="../data_science_experience/posts/LegoSetPrices.html" class="no-external"></a></p><a href="../data_science_experience/posts/LegoSetPrices.html" class="no-external">
 <p class="card-img-top"><img src="posts\LegoSetPrices_files\figure-html\fig-sets_released-1.png"  class="thumbnail-image card-img"/></p>
